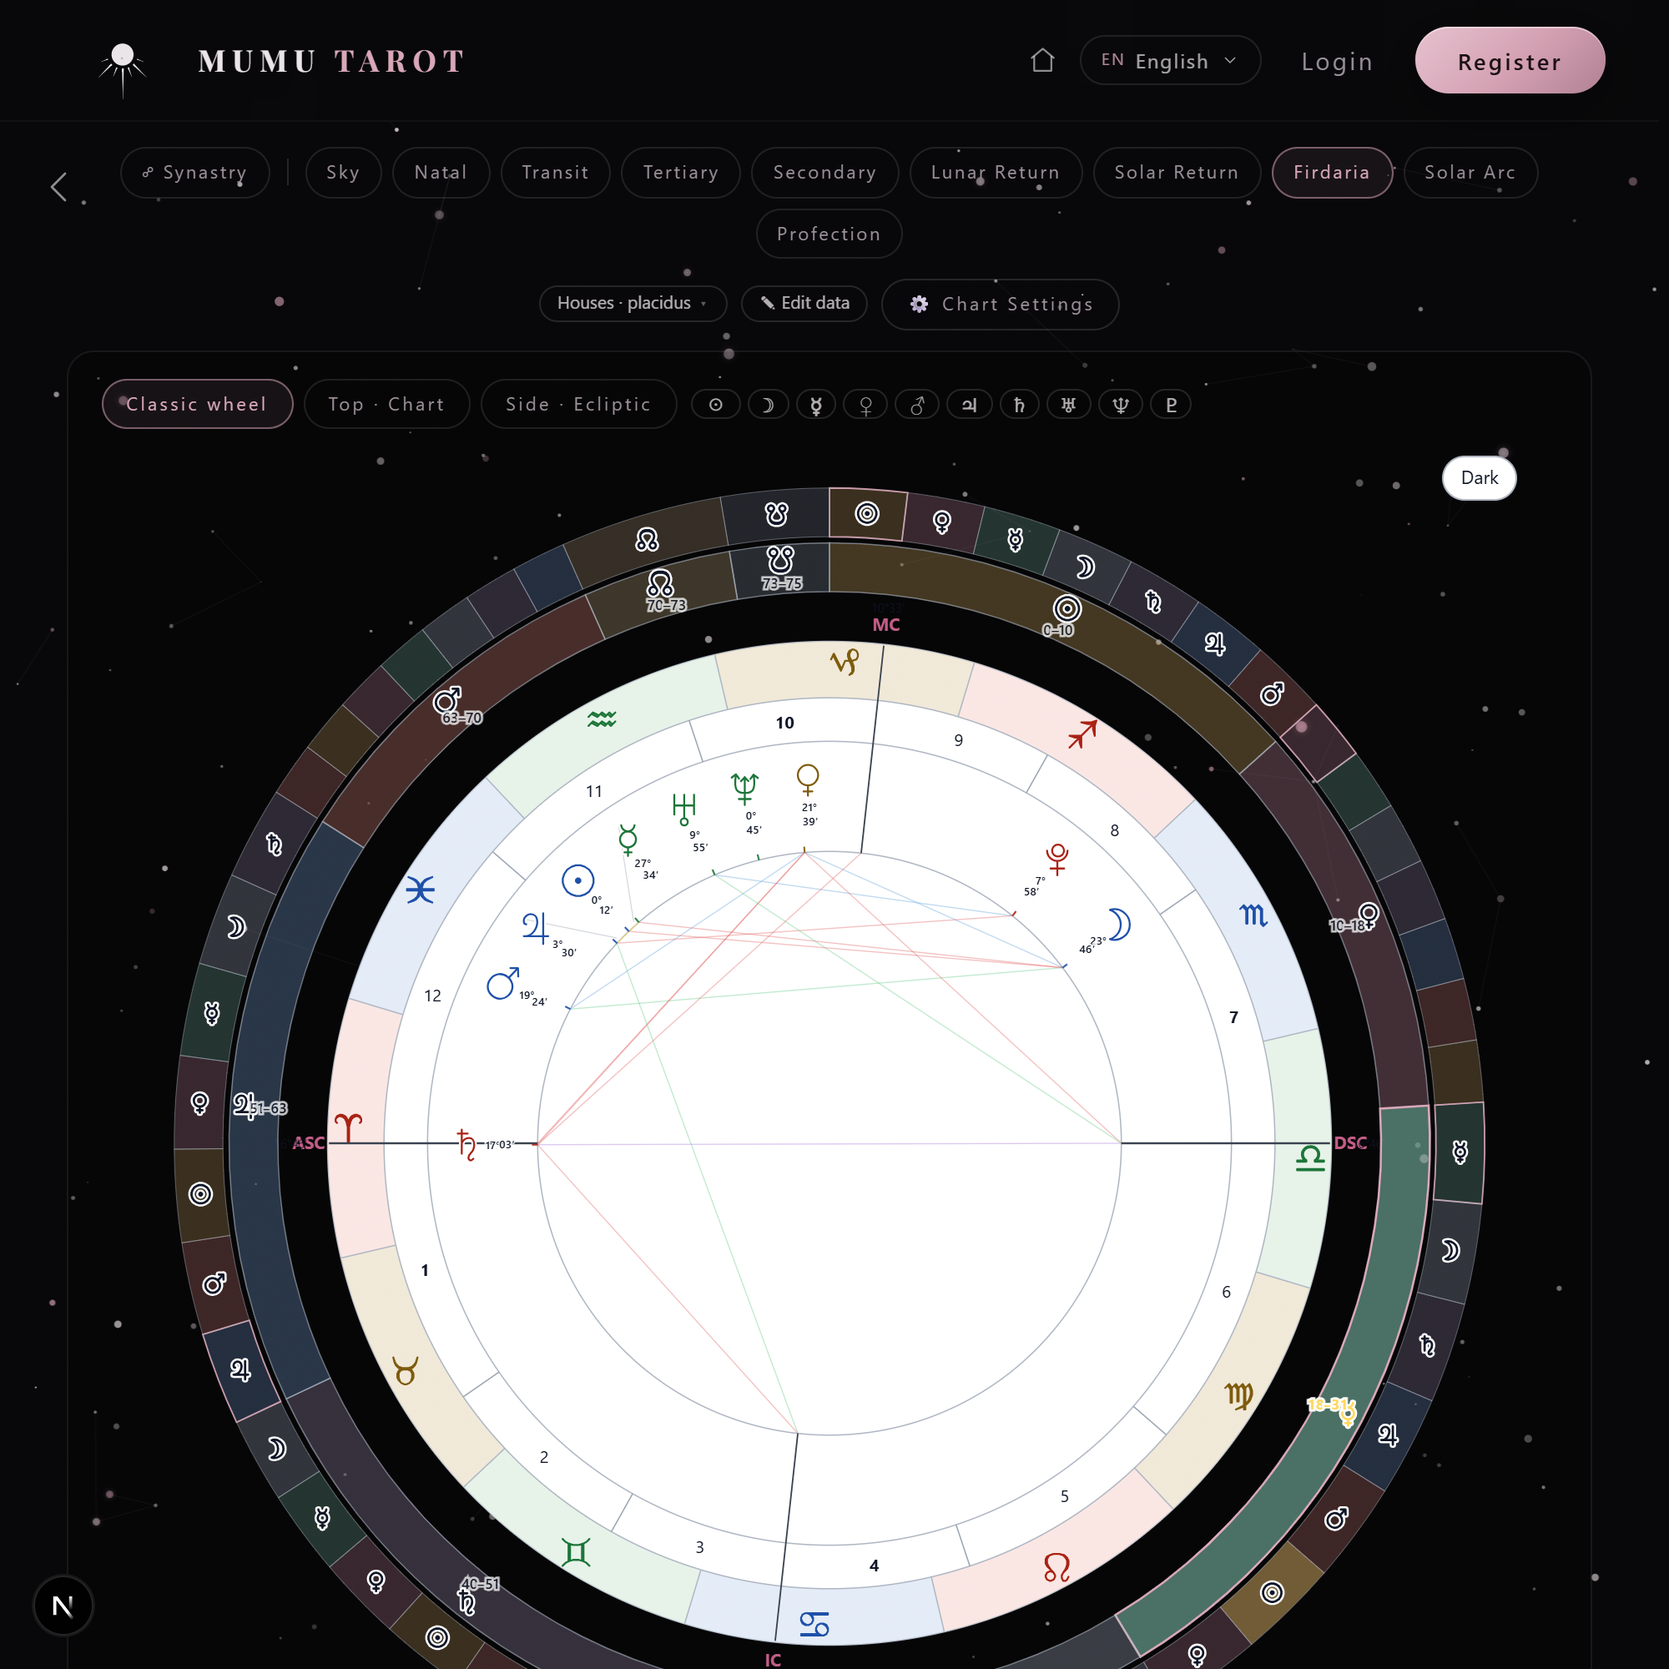
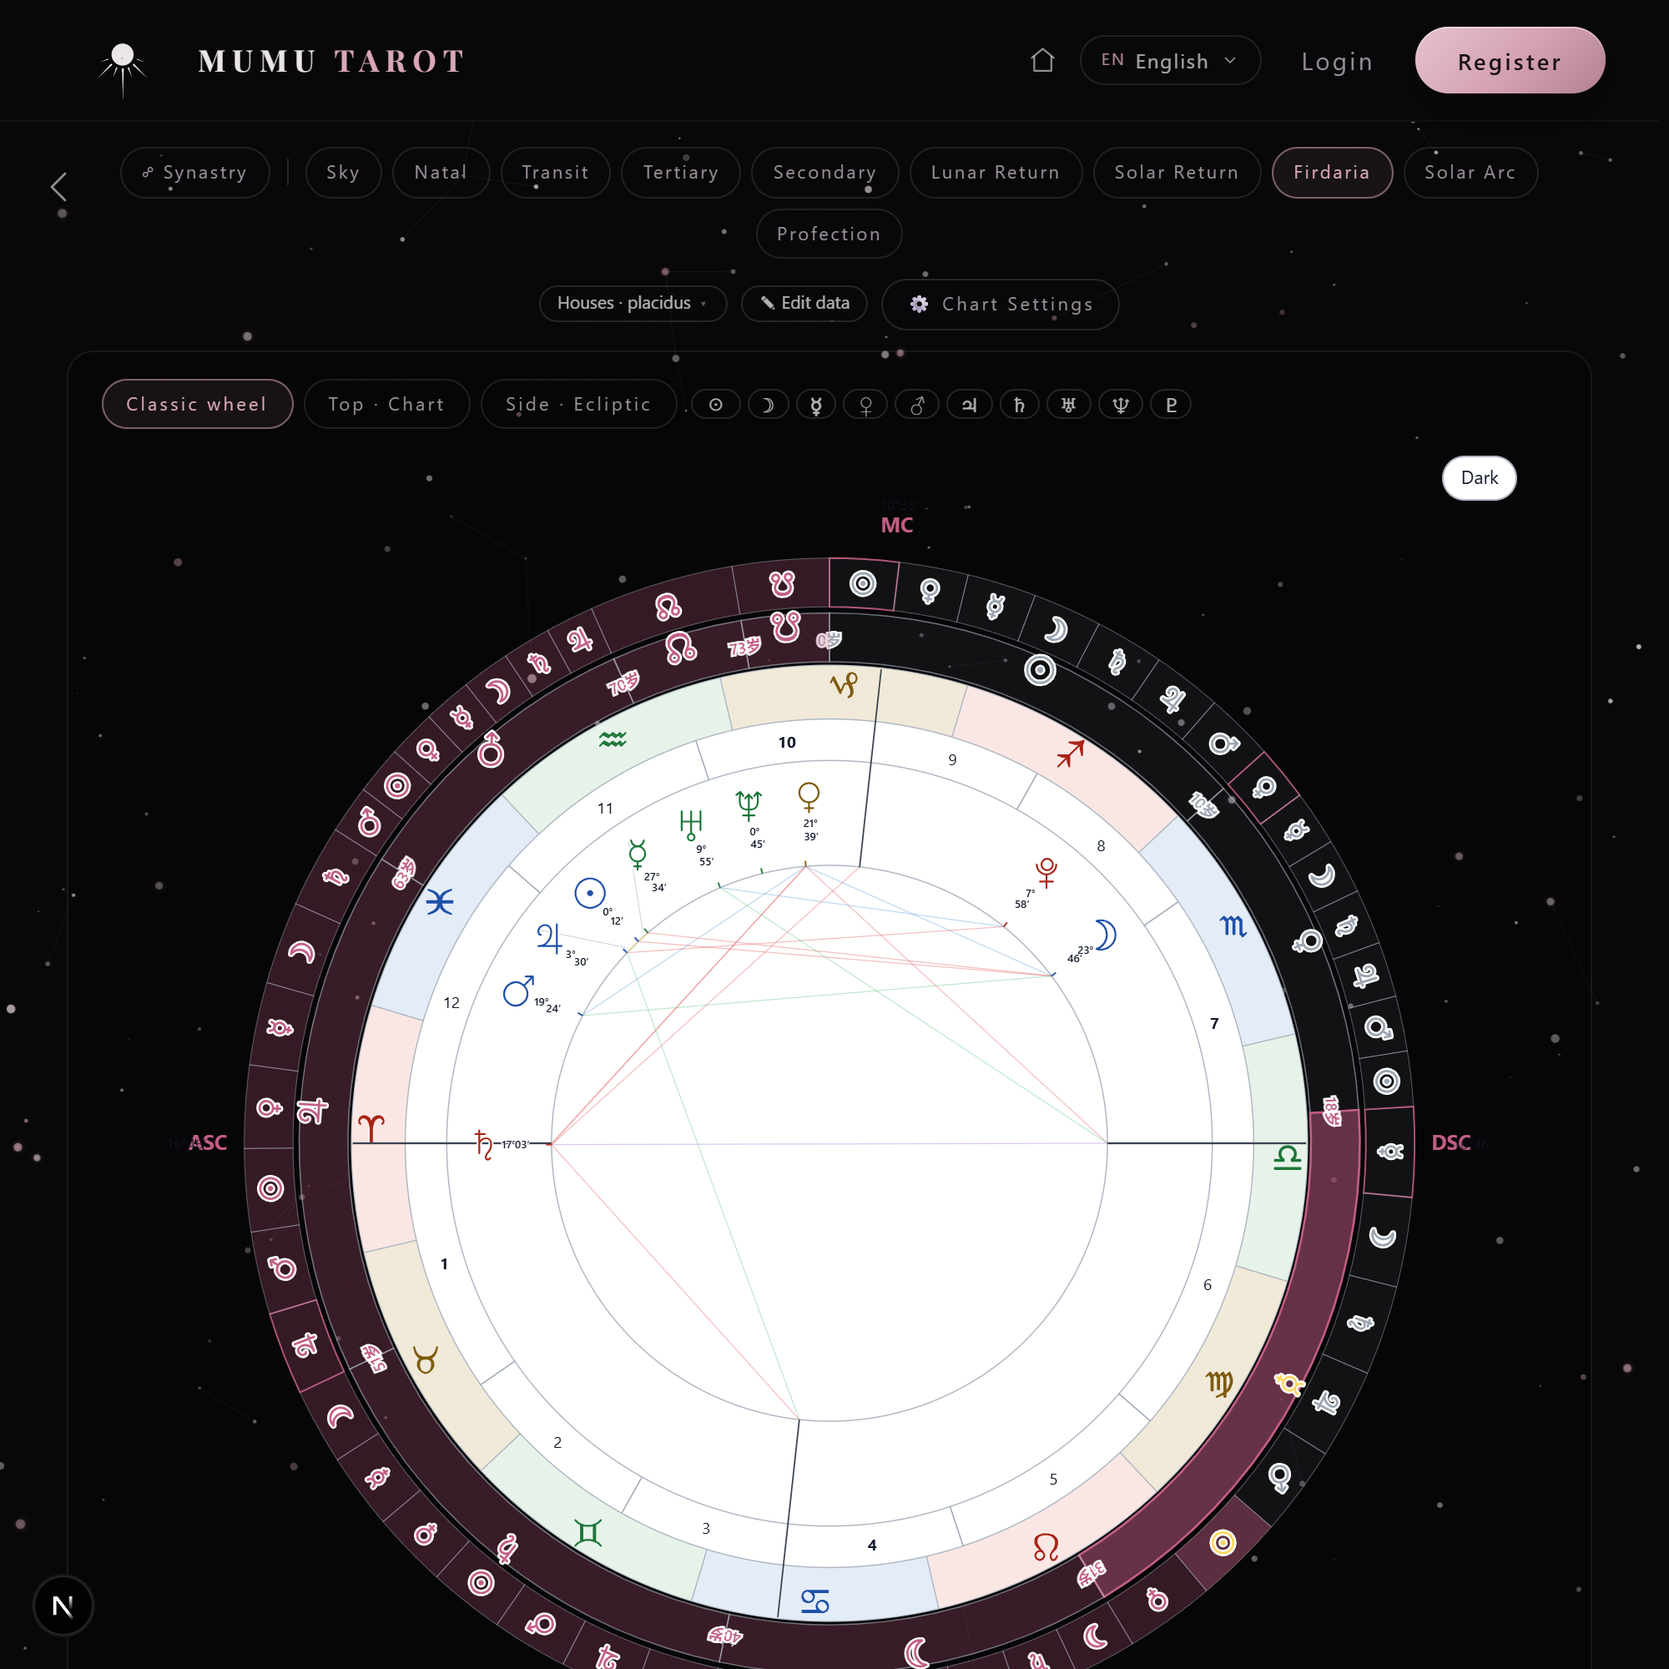
法达环v2(爸爸五点+测测同款): 单一主题色=已走过无色/未走过玫红; 符号改盘内同款矢量且旋转沿弧零空白; 年纪环内旋转弧排不超出; 四轴移到最外缘; 双环收紧消黑缝; 盘体缩至80%

diff --git a/src/components/astro/ChartWheel2D.tsx b/src/components/astro/ChartWheel2D.tsx
@@ -12,7 +12,7 @@ import type { VChart, VPlanet } from '@/components/astro/ChartWheel';
 import { aspectHex } from '@/lib/astro/aspect-colors';
 import { GLYPH_PATHS, SYMBOL_TO_GLYPH, ZODIAC_GLYPH_NAMES } from '@/lib/astro/glyph-paths';
 import { firdariaTable, firdaria, SIGN_RULER } from '@/lib/astro/timing';
-import { LORD_HEX_OF } from '@/lib/astro/lord-colors';
+
 
 // 矢量符号渲染: 统一描边粗细 + 双层(白色防粘底+彩色笔画) (爸爸: 像宫神星那样, 系统字体的Unicode符号天然粗细不一)
 const GLYPH_SIZE = 24;   // 目标视觉高度 (px) — 爸爸: 再稍微缩小一点点 (26→24)
@@ -52,10 +52,10 @@ const R_DUAL_IN = 256;         // 双环: 内圈(本命) — 本命+次限对比
 const R_DUAL_OUT = 300;        // 双环: 外圈(次限)
 const R_ASPECT = 228;          // 内圆 = 相位弦边界
 // —— 外圈双环带 (绝对半径, 不随盘体缩放): 从外到里 小运环→大运环→星座→宫位 (爸爸定稿) ——
-const R_SUB_OUT = 430;         // 小运环 (法达子段/小限) 外缘 (整盘最大外径, 与其他盘+角标的观感一致)
-const R_SUB_IN = 398;          // 小运环内缘
-const R_MAIN_OUT = 394;        // 大运环外缘 (新增: 主星符号+年龄阶段)
-const R_MAIN_IN = 362;         // 大运环内缘
+const R_SUB_OUT = 384;         // 小运环 (法达子段/小限) 外缘
+const R_SUB_IN = 352;          // 小运环内缘
+const R_MAIN_OUT = 348;        // 大运环外缘 (主星符号+年龄段, 环内旋转弧排)
+const R_MAIN_IN = 316;         // 大运环内缘 (盘体缩到 0.80 刚好贴住, 无缝隙黑圈 — 爸爸: 中间黑环不好看)
 const xy = (r: number, a: number) => [C + r * Math.cos(a), C - r * Math.sin(a)] as const;
 const wrap = (lon: number) => ((lon % 360) + 360) % 360;
 const fmtDeg = (lon: number) => {
@@ -108,13 +108,13 @@ export default function ChartWheel2D({ chart, zhMode, selected, onSelect, dualRi
     ? !!chart.planets.find((x) => x.name === 'Sun')?.house && (chart.planets.find((x) => x.name === 'Sun')!.house! >= 7)
     : false;
   const firRows = outerBand === 'firdaria' ? firdariaTable(firDay, chart.input.year, chart.input.month, chart.input.day, 1) : null;
-  const firMains = firRows ? firRows.filter((r) => r.sub === r.lord || r.sub === null) : null;
+
   // 大运主段 (内圈大运环用): 9段含起止年龄
   const firPeriods = outerBand === 'firdaria' ? firdaria(firDay) : null;
   const ascLon = chart.angles.ascendant?.longitude ?? 0;
   // 法达/小限盘: 内盘整体缩小 16% 给外圈大运/小运环腾位, 整盘最大外径仍与普通盘一致 (爸爸: 整体大小相同, 加了环所以原环缩小)
   const bandOn = outerBand === 'firdaria' || outerBand === 'profection';
-  const kDisk = bandOn ? 0.84 : 1;
+  const kDisk = bandOn ? 0.80 : 1;   // 盘沿 392*0.80=314 ≈ R_MAIN_IN 贴合无黑缝
   const DIR = chart.settings?.display?.dir ?? 'ccw';
   const ASCP = chart.settings?.display?.ascPos ?? 'left';
   const la = (lon: number) => lonToAngle(lon, ascLon, DIR, ASCP);
@@ -265,20 +265,7 @@ export default function ChartWheel2D({ chart, zhMode, selected, onSelect, dualRi
           </g>
         );
       })}
-      {/* 角标 (盘沿外, 带轴点度分) */}
-      {hasHouses && [cusps![0], cusps![3], cusps![6], cusps![9]].map((lon, i) => {
-        const lab = ['ASC', 'IC', 'DSC', 'MC'][i];
-        const a = la(lon);
-        const [bx, by] = xy(R_OUT + 15, a);
-        const [dx, dy] = xy(R_OUT + 29, a);
-        const [dg1, dg2] = fmtDeg(lon);
-        return (
-          <g key={i}>
-            <text x={bx} y={by + 4.5} textAnchor="middle" fontSize="13.5" fontWeight={700} fill={paper ? '#c25d84' : '#d9a8b8'}>{lab}</text>
-            <text x={dx} y={dy + 4} textAnchor="middle" fontSize="9.5" fill={P.ink} opacity="0.8">{dg1}{dg2}</text>
-          </g>
-        );
-      })}
+      {/* 角标在盘体组外 (下面单独渲染): 法达盘挂最外环之外 (爸爸: ASC标到最外面) */}
       {/* 相位弦线: 端点=真实度数落在内圆边界, 四色细线 */}
       {aspList.map((a, i) => {
         // 四轴端点: 轴点黄经(ASC/MC直取, DSC/IC=对宫) → 与角标同位置; glyphs 只有行星
@@ -319,8 +306,24 @@ export default function ChartWheel2D({ chart, zhMode, selected, onSelect, dualRi
         renderRing(glyphs, R_PLANET, 'single')
       )}
       </g>
-      {/* ---- 法达双环 (爸爸定稿): 内圈大运环=9主段(符号+年龄段), 外圈小运环=61子段(上色); 从外到里 小运环→大运环→星座→宫位 ---- */}
-      {outerBand === 'firdaria' && firRows && firMains && firPeriods && (() => {
+      {/* 角标 (缩放组外·绝对坐标): 普通盘=盘沿外15/29 不变; 法达/小限盘=挂最外环之外 (爸爸: ASC标到最外面, 别夹在中间黑环) */}
+      {hasHouses && [cusps![0], cusps![3], cusps![6], cusps![9]].map((lon, i) => {
+        const lab = ['ASC', 'IC', 'DSC', 'MC'][i];
+        const a = la(lon);
+        const off1 = bandOn ? 24 : 15, off2 = bandOn ? 38 : 29;
+        const base = bandOn ? R_SUB_OUT : R_OUT;
+        const [bx, by] = xy(base + off1, a);
+        const [dx, dy] = xy(base + off2, a);
+        const [dg1, dg2] = fmtDeg(lon);
+        return (
+          <g key={i}>
+            <text x={bx} y={by + 4.5} textAnchor="middle" fontSize="13.5" fontWeight={700} fill={paper ? '#c25d84' : '#d9a8b8'}>{lab}</text>
+            <text x={dx} y={dy + 4} textAnchor="middle" fontSize="9.5" fill={P.ink} opacity="0.8">{dg1}{dg2}</text>
+          </g>
+        );
+      })}
+      {/* ---- 法达双环 (爸爸定稿 v2, 测测同款): 只保持一种色 — 已走过=无色, 未走过=主题色; 符号旋转沿弧全量显示; 年纪在环内 ---- */}
+      {outerBand === 'firdaria' && firRows && firPeriods && (() => {
         const yearA = (age: number) => Math.PI / 2 - (age / 75) * Math.PI * 2;   // 12点起顺时针, 75年一圈
         const curAgeD = (Date.now() - Date.UTC(chart.input.year, chart.input.month - 1, chart.input.day)) / (365.2425 * 86400000);
         const SYM_OF: Record<string, string> = { Sun: '☉', Moon: '☽', Mercury: '☿', Venus: '♀', Mars: '♂', Jupiter: '♃', Saturn: '♄', NorthNode: '☊', SouthNode: '☋' };
@@ -328,18 +331,22 @@ export default function ChartWheel2D({ chart, zhMode, selected, onSelect, dualRi
           const [x1, y1] = xy(rOut, a0), [x2, y2] = xy(rOut, a1), [x3, y3] = xy(rIn, a1), [x4, y4] = xy(rIn, a0);
           return `M ${x1} ${y1} A ${rOut} ${rOut} 0 0 1 ${x2} ${y2} L ${x3} ${y3} A ${rIn} ${rIn} 0 0 0 ${x4} ${y4} Z`;
         };
-        const R_MAIN_MID = (R_MAIN_IN + R_MAIN_OUT) / 2;   // 396
+        const THEME = paper ? '#c25d84' : '#d9a8b8';               // 主题色 (未走过)
+        const PASTC = paper ? '#9aa3af' : '#8a93a3';               // 无色档 (已走过)
+        const rotAt = (a: number) => { let d = 90 - a * 180 / Math.PI; d = ((d % 360) + 360) % 360; return d > 180 ? d - 360 : d; };  // 符号顶朝外沿弧旋转
+        const R_MAIN_MID = (R_MAIN_IN + R_MAIN_OUT) / 2;
+        const R_SUB_MID = (R_SUB_IN + R_SUB_OUT) / 2;
         return (
           <>
-            {/* 大运环 (内, 新增): 9主段 —— 主星符号 + 年龄阶段; 当前大运玫红高亮 */}
+            {/* 大运环 (内): 9主段 — 符号居中旋转沿弧 + 起运年纪在环内边界; 当前段高亮 */}
             {firPeriods.map((m, i) => {
               const a0 = yearA(m.startAge), a1 = yearA(m.endAge);
               const isNow = curAgeD >= m.startAge && curAgeD < m.endAge;
+              const isPast = curAgeD >= m.endAge;
               const hov = mainHover === i || (bandPin?.kind === 'main' && bandPin.idx === i);
-              const c = LORD_HEX_OF(m.lord);
               const mid = (a0 + a1) / 2;
-              const [gx, gy] = xy(R_MAIN_MID + 6, mid);
-              const [tx, ty] = xy(R_MAIN_MID - 9, mid);
+              const [gx, gy] = xy(R_MAIN_MID + 8, mid);
+              const [tx, ty] = xy(R_MAIN_MID - 2, a0);
               return (
                 <g key={`main-${i}`}
                   onMouseEnter={() => setMainHover(i)} onMouseLeave={() => setMainHover(null)}
@@ -347,22 +354,28 @@ export default function ChartWheel2D({ chart, zhMode, selected, onSelect, dualRi
                   onClick={(e) => { e.stopPropagation(); setBandPin({ kind: 'main', idx: i }); }}
                 >
                   <path d={arcCw(R_MAIN_IN, R_MAIN_OUT, a0, a1)}
-                    fill={c} fillOpacity={isNow ? (hov ? 0.66 : 0.5) : (hov ? 0.5 : 0.26)}
-                    stroke={isNow ? '#d9a8b8' : P.ring} strokeWidth={isNow ? 1.4 : 0.8} strokeOpacity={isNow ? 1 : 0.6} />
-                  <GlyphPath name={SYMBOL_TO_GLYPH[SYM_OF[m.lord]] ?? ''} cx={gx} cy={gy} color={isNow ? '#ffd75e' : P.ink} bg={P.bg} size={hov ? 17 : 15} />
-                  <text x={tx} y={ty + 3.5} textAnchor="middle" fontSize="9.5" fontWeight={isNow ? 700 : 500} fill={isNow ? '#ffd75e' : P.ink} opacity={isNow ? 1 : 0.75} stroke={P.bg} strokeWidth="2.4" paintOrder="stroke">{Math.round(m.startAge)}–{Math.round(m.endAge)}</text>
+                    fill={isPast ? (paper ? 'rgba(120,130,145,0.10)' : 'rgba(148,163,184,0.07)') : THEME}
+                    fillOpacity={isPast ? 1 : (isNow ? (hov ? 0.66 : 0.5) : (hov ? 0.44 : 0.26))}
+                    stroke={isNow ? THEME : P.ring} strokeWidth={isNow ? 1.4 : 0.8} strokeOpacity={isNow ? 1 : 0.6} />
+                  <g transform={`rotate(${rotAt(mid)} ${gx} ${gy})`}>
+                    <GlyphPath name={SYMBOL_TO_GLYPH[SYM_OF[m.lord]] ?? ''} cx={gx} cy={gy} color={isPast ? PASTC : (isNow ? '#ffd75e' : THEME)} bg={P.bg} size={hov ? 19 : 17} />
+                  </g>
+                  <g transform={`rotate(${rotAt(a0)} ${tx} ${ty})`}>
+                    <text x={tx} y={ty + 3.5} textAnchor="middle" fontSize="10" fontWeight={600} fill={isPast ? PASTC : THEME} stroke={P.bg} strokeWidth="2.4" paintOrder="stroke">{Math.round(m.startAge)}岁</text>
+                  </g>
                 </g>
               );
             })}
-            {/* 小运环 (外): 61子段上色 + 符号, 悬停高亮, 点击只弹窗 */}
+            {/* 小运环 (外): 61子段 — 符号旋转沿弧全量显示 (不再省略窄段, 爸爸: 有空白) */}
             {firRows.map((r, i) => {
               const a0 = yearA(r.startAge), a1 = yearA(r.endAge);
               const isNow = curAgeD >= r.startAge && curAgeD < r.endAge;
+              const isPast = curAgeD >= r.endAge;
               const lord = r.sub ?? r.lord;
-              const c = LORD_HEX_OF(lord);
               const hov = bandHover === i || (bandPin?.kind === 'sub' && bandPin.idx === i);
               const isMainStart = firPeriods.some((m) => m.startAge === r.startAge);
-              const spanYears = r.endAge - r.startAge;
+              const mid = (a0 + a1) / 2;
+              const [sx, sy] = xy(R_SUB_MID, mid);
               return (
                 <g key={`sub-${i}`}
                   onMouseEnter={() => setBandHover(i)} onMouseLeave={() => setBandHover(null)}
@@ -370,13 +383,13 @@ export default function ChartWheel2D({ chart, zhMode, selected, onSelect, dualRi
                   onClick={(e) => { e.stopPropagation(); setBandPin({ kind: 'sub', idx: i }); }}
                 >
                   <path d={arcCw(R_SUB_IN, R_SUB_OUT, a0, a1)}
-                    fill={c} fillOpacity={isNow ? (hov ? 0.62 : 0.45) : (hov ? 0.5 : 0.22)}
-                    stroke={isMainStart ? '#d9a8b8' : P.ring} strokeWidth={isMainStart ? 1 : 0.5} strokeOpacity={isMainStart ? 0.9 : 0.5} />
-                  {spanYears > 1.2 && (
-                    <GlyphPath name={SYMBOL_TO_GLYPH[SYM_OF[lord]] ?? ''}
-                      cx={xy((R_SUB_IN + R_SUB_OUT) / 2, (a0 + a1) / 2)[0]} cy={xy((R_SUB_IN + R_SUB_OUT) / 2, (a0 + a1) / 2)[1]}
-                      color={P.ink} bg={P.bg} size={hov ? 15 : 12} />
-                  )}
+                    fill={isPast ? (paper ? 'rgba(120,130,145,0.10)' : 'rgba(148,163,184,0.07)') : THEME}
+                    fillOpacity={isPast ? 1 : (isNow ? (hov ? 0.62 : 0.45) : (hov ? 0.42 : 0.24))}
+                    stroke={isMainStart ? THEME : P.ring} strokeWidth={isMainStart ? 1 : 0.5} strokeOpacity={isMainStart ? 0.9 : 0.5} />
+                  <g transform={`rotate(${rotAt(mid)} ${sx} ${sy})`}>
+                    <GlyphPath name={SYMBOL_TO_GLYPH[SYM_OF[lord]] ?? ''} cx={sx} cy={sy}
+                      color={isPast ? PASTC : (isNow ? '#ffd75e' : THEME)} bg={P.bg} size={hov ? 16 : 13.5} />
+                  </g>
                 </g>
               );
             })}
@@ -410,18 +423,17 @@ export default function ChartWheel2D({ chart, zhMode, selected, onSelect, dualRi
         const birthMs = Date.UTC(chart.input.year, chart.input.month - 1, chart.input.day)
         const toDate = (age: number) => new Date(birthMs + Math.round(age * 365.2425 * 86400000))
         const fmt = (d: Date) => `${d.getUTCFullYear()}-${String(d.getUTCMonth() + 1).padStart(2, '0')}-${String(d.getUTCDate()).padStart(2, '0')}`
-        let lord = '', sub = '', sAge = 0, eAge = 0, jy = 0, jm = 1, jd = 1, c = '#8cc0ff'
+        let lord = '', sub = '', sAge = 0, eAge = 0, jy = 0, jm = 1, jd = 1
+        const c = paper ? '#c25d84' : '#d9a8b8'   // 爸爸: 法达只保持一种主题色 (浮层同源)
         if (act.kind === 'main') {
           const m = firPeriods[act.idx]; if (!m) return null
           lord = m.lord; sAge = m.startAge; eAge = m.endAge
           const row = firRows.find((r) => Math.abs(r.startAge - m.startAge) < 1e-6)
           jy = row?.y ?? chart.input.year; jm = row?.m ?? chart.input.month; jd = row?.d ?? chart.input.day
-          c = LORD_HEX_OF(m.lord)
         } else {
           const r = firRows[act.idx]; if (!r) return null
           lord = r.lord; sub = r.sub && r.sub !== r.lord ? r.sub : ''
           sAge = r.startAge; eAge = r.endAge; jy = r.y; jm = r.m; jd = r.d
-          c = LORD_HEX_OF(r.sub ?? r.lord)
         }
         const pinned = !!bandPin && bandPin.kind === act.kind && bandPin.idx === act.idx
         return (

diff --git a/scripts/_check_fir_v2.py b/scripts/_check_fir_v2.py
@@ -1,0 +1,25 @@
+# -*- coding: utf-8 -*-
+"""验证法达v2配色: 沿环采色 — 1998生人现在~28.6岁; 0-28岁段应无色(灰), 28岁后段应主题玫红"""
+from PIL import Image
+import numpy as np, math
+
+img = Image.open('D:/网站/塔罗/tarot-site/scripts/_fir_v2_dark.png').convert('RGB')
+a = np.asarray(img).astype(int)
+H, W = a.shape[:2]
+print('png size', W, H)
+# 找盘心: 图是 svg 截图, viewBox 920 → 缩放 s=W/920; 心=(460s,460s)
+s = W / 920.0
+cx, cy = 460 * s, 460 * s
+R = 368 * s   # 小运环中线
+
+def sample_age(age):
+    """法达 12点=0岁 顺时针"""
+    th = math.pi / 2 - (age / 75) * 2 * math.pi
+    x = int(cx + R * math.cos(th)); y = int(cy - R * math.sin(th))
+    # 3x3 均值
+    win = a[max(0,y-2):y+3, max(0,x-2):x+3].reshape(-1, 3).mean(axis=0)
+    return tuple(int(v) for v in win)
+
+for age in [3, 8, 14, 20, 26, 35, 45, 60, 72]:
+    tag = '已走过(应灰)' if age < 28.6 else '未走过(应玫红)'
+    print(f'{age:3d}岁: {sample_age(age)} {tag}')

diff --git a/scripts/_cece_px.py b/scripts/_cece_px.py
@@ -1,0 +1,17 @@
+# -*- coding: utf-8 -*-
+"""测设法达盘外环像素采样: 找圆心/半径, 沿角度扫色 → 判定 已走/当前/未走 配色规则"""
+from PIL import Image
+import numpy as np, math
+
+p = 'C:/Users/99192/AppData/Roaming/Hermes/composer-images/0d0a0ff3038cfb789f0555e30a6eec0a_00a199.jpg'
+im = Image.open(p).convert('RGB')
+a = np.asarray(im).astype(int)
+H, W = a.shape[:2]
+print('size', W, H)
+
+# 假设圆心 x≈540 (图宽一半), y 待扫; 先粗扫: 在 x=540 垂直线上找盘的深色区边界
+# 更稳: 找图中最大圆形盘 — 扫描 y=1100 附近, 用亮色(环底色)定位
+# 输出几行像素概览: 每 100px 采一个点的 RGB
+for y in range(500, 2000, 100):
+    row = [tuple(a[y, x]) for x in range(60, W, 120)]
+    print(y, row)

diff --git a/scripts/_read_cece.py b/scripts/_read_cece.py
@@ -1,0 +1,20 @@
+# -*- coding: utf-8 -*-
+"""读测设法达参考图: OCR文字环布局 + 外环弧段颜色采样 (已走/未走配色规则)"""
+from rapidocr_onnxruntime import RapidOCR
+from PIL import Image
+import numpy as np, math
+
+p = 'C:/Users/99192/AppData/Roaming/Hermes/composer-images/0d0a0ff3038cfb789f0555e30a6eec0a_00a199.jpg'
+im = Image.open(p).convert('RGB')
+W, H = im.size
+print('图片尺寸:', W, H)
+ocr = RapidOCR(intra_op_num_threads=4, inter_op_num_threads=1)
+res, _ = ocr(p)
+items = []
+for box, txt, conf in (res or []):
+    if float(conf) > 0.55:
+        x = int(box[0][0]); y = int(box[0][1])
+        items.append((y, x, txt))
+items.sort()
+for y, x, t in items:
+    print(f'{y:4d} {x:4d} {t}')
